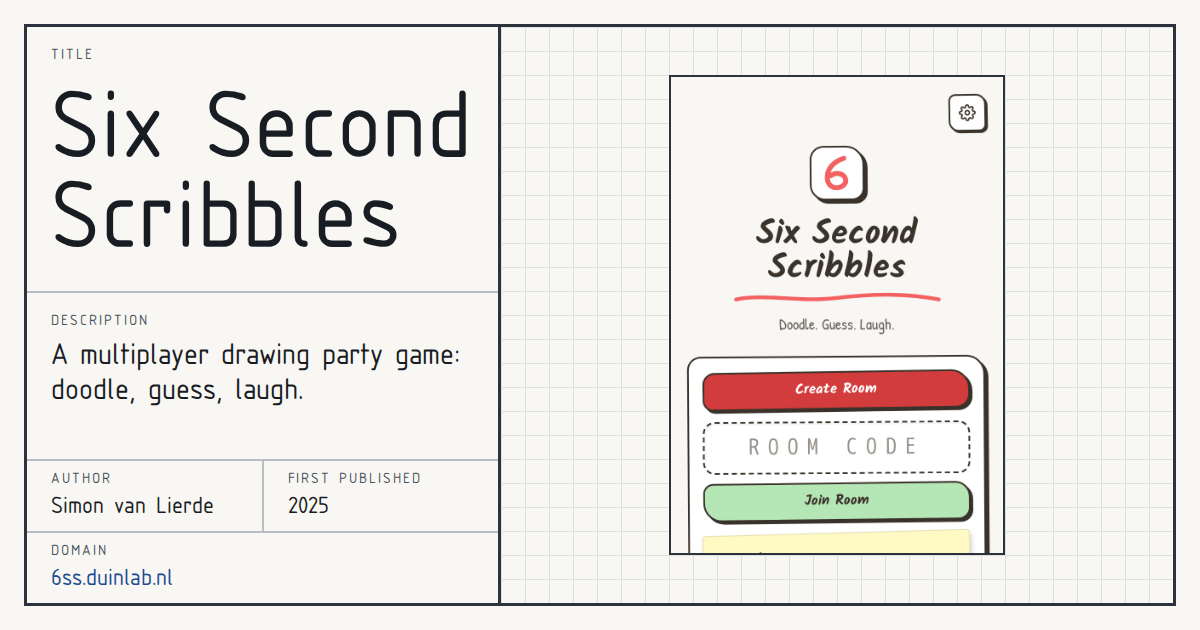
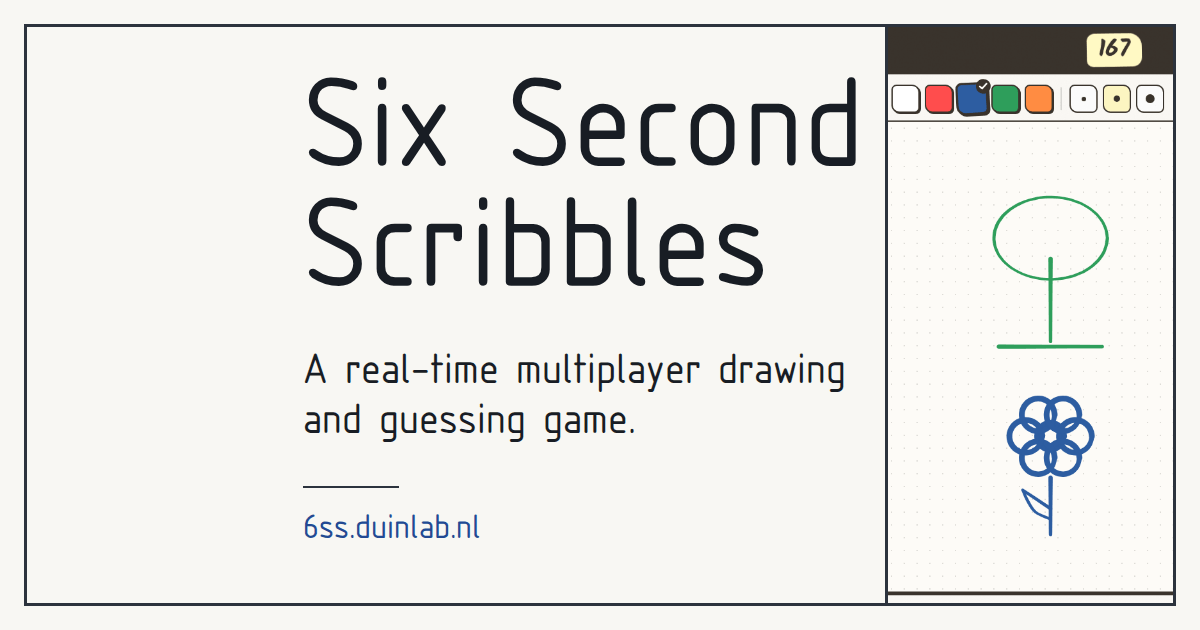
feat(social-card): re-render the card as a poster that reads at preview size
The title-block card showed field labels and a small screenshot that were texture at 300-500 px. It now shows
the name, one line, the address and the drawing canvas, made with simonvanlierde/simonvanlierde.github.io
social-card (d6041d9 on branch social-card-poster).

- og:image:alt states the card's message
- the README says how to regenerate it

diff --git a/frontend/index.html b/frontend/index.html
@@ -17,7 +17,7 @@
     <meta property="og:image" content="https://6ss.duinlab.nl/og.png">
     <meta property="og:image:width" content="1200">
     <meta property="og:image:height" content="630">
-    <meta property="og:image:alt" content="Six Second Scribbles on a phone: the game logo and tagline, a red Create Room button, a room code field and a green Join Room button.">
+    <meta property="og:image:alt" content="Six Second Scribbles, a real-time multiplayer drawing and guessing game, at 6ss.duinlab.nl, beside a drawn tree and flower.">
     <meta name="twitter:card" content="summary_large_image">
     <!-- Sets the saved theme before first paint; see public/theme-init.js. -->
     <script src="/theme-init.js"></script>

diff --git a/README.md b/README.md
@@ -37,6 +37,18 @@ just check-frontend check-backend
 just test
 ```
 
+## Social card
+
+`frontend/public/og.png` is the 1200x630 card shown when the link is shared. It is made with the generator in
+[my site repo](https://github.com/simonvanlierde/simonvanlierde.github.io/tree/main/scripts/social-card)
+(needs Docker). From a checkout of that repo, with this repo next to it:
+
+```sh
+pnpm gen:card --visual ../6-second-scribbles/docs/screenshots/desktop-drawing.png --name "Six Second Scribbles" \
+  --line "A real-time multiplayer drawing and guessing game." \
+  --domain 6ss.duinlab.nl --focus "32% 50%" --out ../6-second-scribbles/frontend/public/og.png
+```
+
 ## Docs
 
 - [Product brief](frontend/PRODUCT.md) and the [next roadmap](frontend/docs/roadmap.md)
